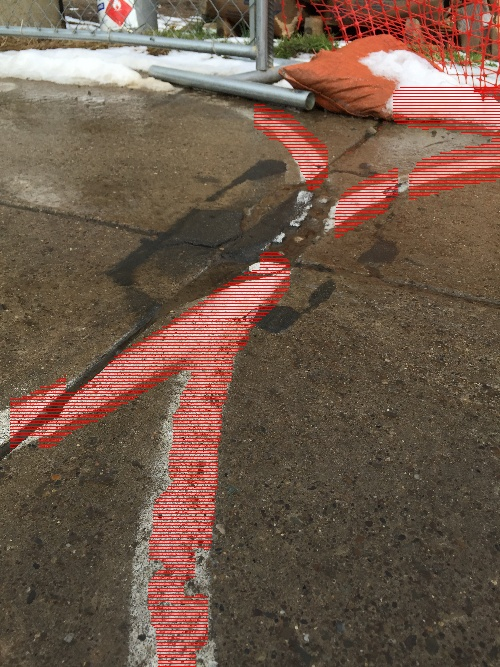
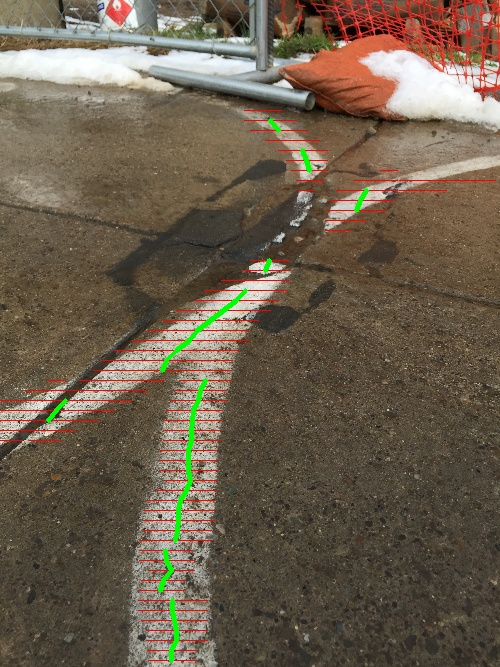
lol wtf

Changed region(s): [[0.0, 0.3598, 0.6, 1.0], [0.66, 0.1199, 1.0, 0.3598], [0.48, 0.1499, 0.66, 0.2999]]

diff --git a/line_detector.py b/line_detector.py
@@ -4,6 +4,54 @@ from cv2_utils import *
 
 from skimage import filters
 
+class RowLines():
+    def __init__(self, r, c_rngs):
+        self.r = r
+        self.c_rngs = c_rngs
+        self.down_edges = [-1 for _ in range(len(c_rngs))]
+    
+    def draw_lines(self, orig):
+        for c_rng in self.c_rngs:
+            cv2.line(orig, (c_rng[0], self.r), (c_rng[1], self.r), (0, 0, 255), 1)
+    
+    def draw_interrow_lines(self, orig, prev_row_lines):
+        for i in range(len(self.c_rngs)):
+            for j in range(len(prev_row_lines.c_rngs)):
+                c_rng = self.c_rngs[i]
+                prev_c_rng = prev_row_lines.c_rngs[j]
+                lo = max(c_rng[0], prev_c_rng[0])
+                hi = min(c_rng[1], prev_c_rng[1])
+                if lo < hi:
+                    num_overlaps = hi - lo
+                    if .8 * (c_rng[1] - c_rng[0]) < num_overlaps and .8 * (prev_c_rng[1] - prev_c_rng[0]) < num_overlaps:
+                        curr_cntr = int(np.mean(c_rng))
+                        prev_cntr = int(np.mean(prev_c_rng))
+                        cv2.line(orig, (prev_cntr, prev_row_lines.r), (curr_cntr, self.r), (0, 255, 0), 3)
+                        self.down_edges[i] = j
+                        break
+        print(self.c_rngs)
+        print(prev_row_lines.c_rngs)
+        print(self.down_edges)
+
+    def __repr__(self):
+        return f'row_lines({self.r}, {self.c_rngs})'
+
+def draw_lines(orig, segmented, r):
+    lines = []
+    line_start = -1
+    length = 0
+    for c in range(orig.shape[1]):
+        if line_start == -1:
+            line_start = c
+        if segmented[r, c] == 255:
+            length += 1
+        else:
+            if 15 < length:
+                lines.append((line_start, c-1))
+            line_start = -1
+            length = 0
+    return lines
+
 img_idx = 0
 while True:
     fname = f'test/{img_idx}.jpg'
@@ -33,6 +81,7 @@ while True:
     cv2_view(blur=gray)
 
     # cleanup stray bits
+    print(np.std(gray), np.std(gray[thresh_init!=0]))
     val = filters.threshold_otsu(gray[thresh_init!=0])-10
     _, thresh_stray = cv2.threshold(gray,val,255,cv2.THRESH_BINARY)
     gray[thresh_stray==0] = 0
@@ -55,93 +104,64 @@ while True:
 
     cv2_view(gray=gray)
     binary = gray
-
-
-    # crop = blur[-int(blur.shape[0]*.4):,:]
-    # thresh_val = np.percentile(crop, 90, axis=-1)
-    # print(thresh_val)
-
-    # th3 = cv2.adaptiveThreshold(bgr2gray(cv2.blur(img, (10,10))), 255, cv2.ADAPTIVE_THRESH_GAUSSIAN_C,\
-    #         cv2.THRESH_BINARY,201,0)
-    # print('adaptive')
-    # cv2.imshow('img', th3)
-    # cv2_wait()
-
-    # thresh = np.all(np.percentile(crop, 90, axis=(0,1)) < blur, axis=-1).astype(np.uint8)*255
-    # # thresh = ((thresh_val < img) & (img < 255)).astype(np.uint8) * 255
-    # print('threshold')
-    # cv2.imshow('img', thresh)
-    # cv2_wait()
-
-    # blur = cv2.blur(thresh, (3, 6))
-    # print('blur')
-    # cv2.imshow('img', blur)
-    # cv2_wait()
-
-    # blur[blur > 0] = 255
-    # print('blur binarize')
-    # cv2.imshow('img', blur)
-    # cv2_wait()
-
     
-    
-    # print('blur remove small components')
-    # cv2.imshow('img', blur)
-    # cv2_wait()
+    # find midpoints
+    blur_new = cv2.blur(bgr2gray(orig), (25,25))
+    edges = cv2.Sobel(blur_new,cv2.CV_8U,1,0,ksize=5)
+    edges[edges < np.percentile(edges, 98)] = 0
+    edges[edges >= np.percentile(edges, 98)] = 255
+    cv2_view(edges=edges)
+    # for each line
+    # if too thick compared to previous, 
+    #   throw away points that are not white compared to previous line
 
-    # vert = cv2.blur(blur, (1, 20))
-    # vert[vert > 0] = 255
-    # print('blur vertically')
-    # cv2.imshow('img', vert)
-    # cv2_wait()
+    # if not many points around it, toss
+    # partition points into sets with dist less than 50
 
-    # nb_components, output, stats, centroids = cv2.connectedComponentsWithStats(
-    #     vert, connectivity=8
-    # )
-    # # stats is left, top, width, height, area
-    # max_label = 1
-    # for i in range(1, nb_components):
-    #     # top plus height
-    #     bottom_row = stats[i, 1] + stats[i, 3]
-    #     if bottom_row < img.shape[0] * .3:
-    #         vert[output == i] = 0
-    # vert[:int(vert.shape[0]*.1),:] = 0
-    # print('remove skyline and things near top')
-    # cv2.imshow('img', vert)
-    # cv2_wait()
-
-    # # within a 50 pix radius of that, if pixel color is in range, yes
-    # # rad = cv2.blur(vert, (25,50))
-    # # low_val = np.percentile(crop, 30)
-    # # high_val = np.percentile(crop, 60)
-    # # img = ((low_val < img) & (img < high_val))
-    # # vert[np.logical_and(img > 0, rad > 0)] = 255
-    # # print('bullshit')
-    # # cv2.imshow('img', vert)
-    # # cv2_wait()
-
-    # nb_components, output, stats, centroids = cv2.connectedComponentsWithStats(
-    #     vert, connectivity=8
-    # )
-    # sizes = stats[:, -1]
-    # max_label = 1
-    # max_size = sizes[1]
-    # for i in range(1, nb_components):
-    #     if sizes[i] > max_size:
-    #         max_label = i
-    #         max_size = sizes[i]
-    # largest = np.zeros(blur.shape).astype(np.uint8)
-    # largest[output == max_label] = 255
-    # centroid = tuple(centroids[max_label].astype(int))
-    # cv2.circle(largest, centroid, 10, (255, 255, 255), 1)
-    # print('grab largest component')
-    # cv2.imshow('img', largest)
-    # cv2_wait()
-
-    for r in range(0, orig.shape[0], 3):
-        draw_line(orig, binary, r)
-    print('fuckky')
+    lines_by_row = []
+    for r in range(0, orig.shape[0], 10):
+        lines_by_row.append(RowLines(r, draw_lines(orig, binary, r, edges)))
     cv2_view(final=orig)
+
+    for r in range(len(lines_by_row)):
+        lines_by_row[r].draw_lines(orig)
+
+    for r in range(1, len(lines_by_row)):
+        rp = len(lines_by_row)-r-1
+        lines_by_row[rp].draw_interrow_lines(orig, lines_by_row[rp+1])
+
+    # through away connected segments with fewer than 10 points
+
+    # cntr_pts = []
+    # for i, line in enumerate(flatten_array(lines_by_row)):
+    #     cntr_pts.append([int(np.mean(line[1:])), line[0]])
+    # cntr_pts = np.array(cntr_pts)
+
+    # new_lines = lines
+    # for i, line in enumerate(1, lines):
+    #     prev_line_thickness = lines[i-1][2] - lines[i-1][1]
+    #     line_thickness = lines[i][2] - lines[i][1]
+    #     new_lines.append(line_thickness / prev_line_thickness)
+
+    # count number of points within 5 pixels of pt in cntr_pts
+    # cntr_pts_new = []
+    # for i, pt in enumerate(cntr_pts):
+    #     count = 0
+    #     for j, pt2 in enumerate(cntr_pts):
+    #         if i != j:
+    #             if np.linalg.norm(pt-pt2) < 10:
+    #                 count += 1
+    #     print(count)
+    #     if 4 < count:
+    #         cntr_pts_new.append((pt[0], pt[1]))
+    # cntr_pts = np.array(cntr_pts_new)
+
+    # for line in lines:
+    #     cv2.line(orig, (line[1], line[0]), (line[2], line[0]), (0, 0, 255), 1)
+
+    # for pt in cntr_pts:
+    #     cv2.circle(orig, (pt[0], pt[1]), 3, (0, 255, 0), -1)
+
 
 
     # # lines = cv2.HoughLinesP(

diff --git a/cv2_utils.py b/cv2_utils.py
@@ -62,7 +62,7 @@ def rescale(img, pix=500):
     img_radius = np.min(img.shape[:2])
     return cv2.resize(img, dsize=(0, 0), fx=pix/img_radius, fy=pix/img_radius)
 
-def cv2_view(t=1, **kwargs):
+def cv2_view(t=0, **kwargs):
     for name,img in kwargs.items():
         print(f'displaying {name}')
         cv2.imshow('img', img)
@@ -79,14 +79,5 @@ def bgr2gray(img):
 def bin2gray(img):
     return img.astype(np.uint8) * 255
 
-def draw_line(orig, segmented, r):
-    length_threshold = 10
-    length = 0
-    for c in range(orig.shape[1]):
-        if segmented[r, c] == 255:
-            length += 1
-            if length_threshold < length:
-                orig[r, c] = (0, 0, 255)
-            
-        else:
-            length = 0
+def flatten_array(arr):
+    return [x for sublist in arr for x in sublist]
